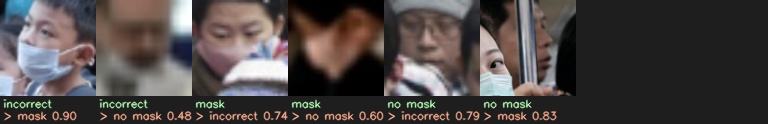
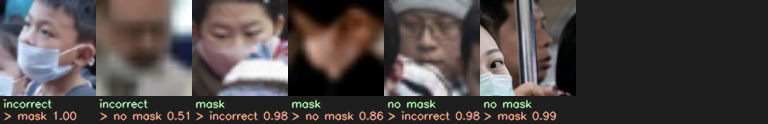
Calibrate confidences with temperature scaling
Label smoothing keeps the softmax from getting confident: faces the model
gets right almost every time still scored ~0.93, so thresholds like
MASK_CONFIDENCE_THRESHOLD and the 0.85 auto-screenshot cut-off didn't
mean what they said.

calibrate.py fits one temperature on the val split (T = 0.40) and stores
it in model_info.json. MaskDetector and evaluate.py apply it after flip
TTA. The argmax doesn't change, so accuracy stays 98.97%.

                ECE before  ECE after  NLL before  NLL after
  val (fit)       0.0713     0.0037      0.0807     0.0123
  test            0.0665     0.0096      0.0961     0.0450

- reliability diagram in models/plots/reliability.png
- test_metrics.json now records the temperature and ECE
- evaluate.py --no-calibration scores the raw softmax

diff --git a/calibrate.py b/calibrate.py
@@ -1,0 +1,184 @@
+# pyre-unsafe
+"""
+calibrate.py — Temperature scaling for the mask classifier's confidences
+
+Training uses label smoothing, which caps how confident the softmax gets:
+a face the model is sure about still scores ~0.93. Thresholds such as
+MASK_CONFIDENCE_THRESHOLD and the "severe violation" cut-off only mean
+something if a confidence of 0.9 is right about 90% of the time.
+
+This fits one temperature T on the validation split (the class order and
+the argmax, so accuracy, don't change):
+
+    p_calibrated = softmax(log(p) / T)
+
+T is stored in models/model_info.json and MaskDetector applies it. The
+script also reports expected calibration error (ECE) and negative
+log-likelihood before and after, on val and on the held-out test split,
+and draws a reliability diagram.
+
+Usage:
+    python calibrate.py
+"""
+
+import os
+import json
+import argparse
+import logging
+import numpy as np
+from scipy.optimize import minimize_scalar
+
+from config import MODEL_DIR, MODEL_INFO_PATH, MASK_MODEL_PATH, VAL_DIR, TEST_DIR, BATCH_SIZE
+
+logging.basicConfig(level=logging.INFO, format="%(asctime)s [%(levelname)s] %(message)s")
+logger = logging.getLogger("Calibrate")
+
+EPS = 1e-7
+
+
+def apply_temperature(probs, temperature):
+    """Rescale probability rows by a temperature (T < 1 sharpens, T > 1 softens)."""
+    probs = np.asarray(probs, dtype="float64")
+    if temperature is None or temperature == 1.0 or probs.size == 0:
+        return probs
+    logits = np.log(np.clip(probs, EPS, 1.0)) / temperature
+    logits -= logits.max(axis=-1, keepdims=True)
+    e = np.exp(logits)
+    return e / e.sum(axis=-1, keepdims=True)
+
+
+def nll(probs, labels):
+    """Mean negative log-likelihood of the true labels."""
+    return float(-np.mean(np.log(np.clip(probs[np.arange(len(labels)), labels], EPS, 1.0))))
+
+
+def expected_calibration_error(probs, labels, n_bins=15):
+    """
+    ECE: bin predictions by confidence, then average |accuracy - confidence|
+    over bins, weighted by how many predictions fall in each.
+    """
+    conf = probs.max(axis=1)
+    correct = (probs.argmax(axis=1) == labels).astype("float64")
+    edges = np.linspace(0.0, 1.0, n_bins + 1)
+    ece = 0.0
+    for lo, hi in zip(edges[:-1], edges[1:]):
+        in_bin = (conf > lo) & (conf <= hi)
+        if in_bin.any():
+            ece += in_bin.mean() * abs(correct[in_bin].mean() - conf[in_bin].mean())
+    return float(ece)
+
+
+def fit_temperature(probs, labels, bounds=(0.05, 10.0)):
+    """Temperature that minimises NLL on (probs, labels)."""
+    res = minimize_scalar(lambda t: nll(apply_temperature(probs, t), labels),
+                          bounds=bounds, method="bounded")
+    return float(res.x)
+
+
+def load_temperature(info_path=MODEL_INFO_PATH):
+    """Stored temperature, or 1.0 (no rescaling) if calibrate.py hasn't been run."""
+    try:
+        with open(info_path) as f:
+            return float(json.load(f).get("temperature", 1.0))
+    except (OSError, ValueError, TypeError):
+        return 1.0
+
+
+def plot_reliability(results, path, n_bins=10):
+    """Reliability diagram: accuracy vs. confidence, before and after scaling."""
+    import matplotlib
+    matplotlib.use("Agg")
+    import matplotlib.pyplot as plt
+
+    fig, axes = plt.subplots(1, len(results), figsize=(6 * len(results), 5), squeeze=False)
+    edges = np.linspace(0.0, 1.0, n_bins + 1)
+    centers = (edges[:-1] + edges[1:]) / 2
+    for ax, (title, probs, labels) in zip(axes[0], results):
+        conf = probs.max(axis=1)
+        correct = probs.argmax(axis=1) == labels
+        acc = [correct[(conf > lo) & (conf <= hi)].mean() if ((conf > lo) & (conf <= hi)).any()
+               else np.nan for lo, hi in zip(edges[:-1], edges[1:])]
+        counts = [int(((conf > lo) & (conf <= hi)).sum()) for lo, hi in zip(edges[:-1], edges[1:])]
+        ax.bar(centers, acc, width=1.0 / n_bins, edgecolor="#1565C0", color="#90CAF9", label="accuracy")
+        ax.plot([0, 1], [0, 1], "k--", lw=1, label="perfect calibration")
+        for x, a, n in zip(centers, acc, counts):
+            if n:
+                ax.text(x, min(a, 1.0) + 0.02, str(n), ha="center", fontsize=7, color="#555")
+        ax.set_title(f"{title}\nECE {expected_calibration_error(probs, labels):.3f}")
+        ax.set_xlabel("Confidence")
+        ax.set_ylabel("Accuracy")
+        ax.set_xlim(0, 1)
+        ax.set_ylim(0, 1.1)
+        ax.legend(loc="upper left", fontsize=8)
+    plt.tight_layout()
+    os.makedirs(os.path.dirname(path), exist_ok=True)
+    plt.savefig(path, dpi=120, bbox_inches="tight")
+    plt.close()
+    return path
+
+
+def main(args):
+    from model import load_trained_model
+    from data_pipeline import make_eval_dataset
+    from evaluate import predict_probs
+
+    model = load_trained_model(args.model)
+    input_size = tuple(model.input_shape[1:3])
+
+    def split_probs(split_dir):
+        ds, labels, _ = make_eval_dataset(split_dir, BATCH_SIZE, input_size, one_hot=False)
+        return predict_probs(model, ds, tta=not args.no_tta), labels
+
+    val_p, val_y = split_probs(args.val_dir)
+    test_p, test_y = split_probs(args.test_dir)
+
+    t = fit_temperature(val_p, val_y)
+    report = {"temperature": round(t, 4), "tta": not args.no_tta}
+    for name, p, y in (("val", val_p, val_y), ("test", test_p, test_y)):
+        cal = apply_temperature(p, t)
+        report[name] = {
+            "n": int(len(y)),
+            "ece_before": round(expected_calibration_error(p, y), 4),
+            "ece_after": round(expected_calibration_error(cal, y), 4),
+            "nll_before": round(nll(p, y), 4),
+            "nll_after": round(nll(cal, y), 4),
+            "mean_confidence_before": round(float(p.max(axis=1).mean()), 4),
+            "mean_confidence_after": round(float(cal.max(axis=1).mean()), 4),
+            "accuracy": round(float((p.argmax(axis=1) == y).mean()), 4),
+        }
+
+    plot_path = plot_reliability(
+        [("Test, before scaling", test_p, test_y),
+         (f"Test, after scaling (T={t:.2f})", apply_temperature(test_p, t), test_y)],
+        os.path.join(MODEL_DIR, "plots", "reliability.png"))
+
+    if not args.dry_run:
+        with open(args.info) as f:
+            info = json.load(f)
+        info["temperature"] = report["temperature"]
+        info["calibration"] = {k: report[k] for k in ("val", "test")}
+        with open(args.info, "w") as f:
+            json.dump(info, f, indent=2)
+        logger.info(f"Temperature saved to {args.info}")
+
+    print("\n" + "=" * 60)
+    print(f"TEMPERATURE SCALING   T = {t:.4f}  (fit on val, {len(val_y)} faces)")
+    print("=" * 60)
+    print(f"  {'split':<6}{'ECE before':>12}{'ECE after':>11}{'NLL before':>12}{'NLL after':>11}")
+    for name in ("val", "test"):
+        r = report[name]
+        print(f"  {name:<6}{r['ece_before']:>12.4f}{r['ece_after']:>11.4f}"
+              f"{r['nll_before']:>12.4f}{r['nll_after']:>11.4f}")
+    print(f"  Reliability diagram: {plot_path}")
+    return report
+
+
+if __name__ == "__main__":
+    parser = argparse.ArgumentParser(description="Fit temperature scaling on the val split")
+    parser.add_argument("--model", default=MASK_MODEL_PATH)
+    parser.add_argument("--val-dir", default=VAL_DIR)
+    parser.add_argument("--test-dir", default=TEST_DIR)
+    parser.add_argument("--info", default=MODEL_INFO_PATH, help="model_info.json to update")
+    parser.add_argument("--no-tta", action="store_true", help="Calibrate single-pass predictions")
+    parser.add_argument("--dry-run", action="store_true", help="Report only, don't save T")
+    main(parser.parse_args())

diff --git a/evaluate.py b/evaluate.py
@@ -9,8 +9,9 @@ Outputs (models/plots/ and models/):
     - test_errors.jpg        (every misclassified test face, for error analysis)
     - test_metrics.json      (accuracy, macro-F1, balanced accuracy, per-class metrics)
 
-By default predictions average the image and its mirror (flip TTA), which is
-what MaskDetector does at runtime. Use --no-tta to score single passes.
+By default predictions average the image and its mirror (flip TTA) and are
+temperature-scaled with the value calibrate.py stored, which is what
+MaskDetector does at runtime. Use --no-tta / --no-calibration to turn either off.
 """
 
 import os
@@ -31,6 +32,7 @@ from sklearn.metrics import (
 from sklearn.preprocessing import label_binarize
 
 from model import load_trained_model
+from calibrate import apply_temperature, load_temperature, expected_calibration_error
 from data_pipeline import make_eval_dataset
 from config import (
     TEST_DIR, MODEL_DIR, CLASSES, MASK_MODEL_PATH, BATCH_SIZE, METRICS_PATH
@@ -52,7 +54,7 @@ def predict_probs(model, dataset, tta=True):
 
 
 def evaluate_model(model_path=MASK_MODEL_PATH, dataset_dir=TEST_DIR, output_dir=None,
-                   tta=True, metrics_path=METRICS_PATH):
+                   tta=True, metrics_path=METRICS_PATH, calibrated=True):
     """Full evaluation pipeline for the trained model. Returns the metrics dict."""
     output_dir = output_dir or os.path.join(MODEL_DIR, "plots")
     os.makedirs(output_dir, exist_ok=True)
@@ -68,7 +70,8 @@ def evaluate_model(model_path=MASK_MODEL_PATH, dataset_dir=TEST_DIR, output_dir=
         raise SystemExit(f"No test images found under {dataset_dir}. Run download_dataset.py first.")
 
     logger.info(f"Predicting {len(y_true)} faces (flip TTA: {'on' if tta else 'off'})...")
-    y_prob = predict_probs(model, test_ds, tta=tta)
+    temperature = load_temperature() if calibrated else 1.0
+    y_prob = apply_temperature(predict_probs(model, test_ds, tta=tta), temperature)
     y_pred = np.argmax(y_prob, axis=1)
     n_classes = len(CLASSES)
 
@@ -92,10 +95,12 @@ def evaluate_model(model_path=MASK_MODEL_PATH, dataset_dir=TEST_DIR, output_dir=
         "split": os.path.relpath(dataset_dir, os.path.dirname(MODEL_DIR)).replace("\\", "/"),
         "n_samples": int(len(y_true)),
         "tta": tta,
+        "temperature": temperature,
         "accuracy": round(float(np.mean(y_pred == y_true)), 4),
         "macro_f1": round(float(f1_score(y_true, y_pred, average="macro")), 4),
         "balanced_accuracy": round(float(balanced_accuracy_score(y_true, y_pred)), 4),
         "macro_auc": round(float(auc_scores.get("macro", float("nan"))), 4),
+        "ece": round(expected_calibration_error(y_prob, y_true), 4),
         "per_class": {
             cls: {"precision": round(float(precision[i]), 4), "recall": round(float(recall[i]), 4),
                   "f1": round(float(f1[i]), 4), "support": int(support[i])}
@@ -111,6 +116,7 @@ def evaluate_model(model_path=MASK_MODEL_PATH, dataset_dir=TEST_DIR, output_dir=
     print(f"\nAccuracy:           {metrics['accuracy']*100:.2f}%")
     print(f"Macro F1:           {metrics['macro_f1']:.4f}")
     print(f"Balanced accuracy:  {metrics['balanced_accuracy']*100:.2f}%")
+    print(f"Calibration (ECE):  {metrics['ece']:.4f}  (temperature {temperature:.3f})")
     print(f"Plots saved to:     {output_dir}/")
     return metrics
 
@@ -217,8 +223,11 @@ if __name__ == "__main__":
                         help="Directory to save plots")
     parser.add_argument("--no-tta", action="store_true",
                         help="Disable flip test-time augmentation")
+    parser.add_argument("--no-calibration", action="store_true",
+                        help="Score raw softmax outputs (ignore the stored temperature)")
     args = parser.parse_args()
 
-    results = evaluate_model(args.model, args.dataset, args.output_dir, tta=not args.no_tta)
+    results = evaluate_model(args.model, args.dataset, args.output_dir, tta=not args.no_tta,
+                             calibrated=not args.no_calibration)
     print(f"\n✅ Evaluation complete | Accuracy: {results['accuracy']*100:.2f}% "
           f"| Macro F1: {results['macro_f1']:.4f}")

diff --git a/mask_detector.py b/mask_detector.py
@@ -5,7 +5,9 @@ mask_detector.py — Mask classification inference engine
 Face ROIs should come from FaceDetector.detect_faces_rois(), which crops them
 the same way the training set was built. With TTA on (default), each face is
 scored together with its mirror image and the two probability vectors are
-averaged, the same as evaluate.py does.
+averaged, the same as evaluate.py does. The averaged probabilities are then
+temperature-scaled (calibrate.py), so a confidence of 0.9 means the model is
+right about 90% of the time and thresholds behave predictably.
 """
 
 import os
@@ -15,6 +17,7 @@ import numpy as np
 from config import (
     MASK_MODEL_PATH, LABEL_ENCODER_PATH, CLASSES, MASK_CONFIDENCE_THRESHOLD, MASK_TTA
 )
+from calibrate import apply_temperature, load_temperature
 
 VIOLATION_CLASSES = ("without_mask", "mask_weared_incorrect")
 
@@ -32,14 +35,18 @@ class MaskDetector:
     """
 
     def __init__(self, model_path=MASK_MODEL_PATH, label_encoder_path=LABEL_ENCODER_PATH,
-                 tta=MASK_TTA, confidence_threshold=MASK_CONFIDENCE_THRESHOLD):
+                 tta=MASK_TTA, confidence_threshold=MASK_CONFIDENCE_THRESHOLD,
+                 temperature=None):
         self.model = self._load_model(model_path)
         self.classes = self._load_classes(label_encoder_path)
         self.input_size = tuple(self.model.input_shape[1:3])   # (height, width)
         self.tta = tta
         self.confidence_threshold = confidence_threshold
+        # None → the value calibrate.py stored in model_info.json (1.0 if never run)
+        self.temperature = load_temperature() if temperature is None else float(temperature)
         logger.info(f"MaskDetector initialized | classes: {self.classes} | "
-                    f"input {self.input_size} | TTA {'on' if tta else 'off'}")
+                    f"input {self.input_size} | TTA {'on' if tta else 'off'} | "
+                    f"temperature {self.temperature:.3f}")
 
     def _load_model(self, path):
         import keras
@@ -89,7 +96,7 @@ class MaskDetector:
         if self.tta:
             n = len(face_rois)
             probs = (probs[:n] + probs[n:]) / 2.0
-        return probs
+        return apply_temperature(probs, self.temperature)
 
     def label_of(self, probs):
         """(label, confidence) for one probability vector."""
